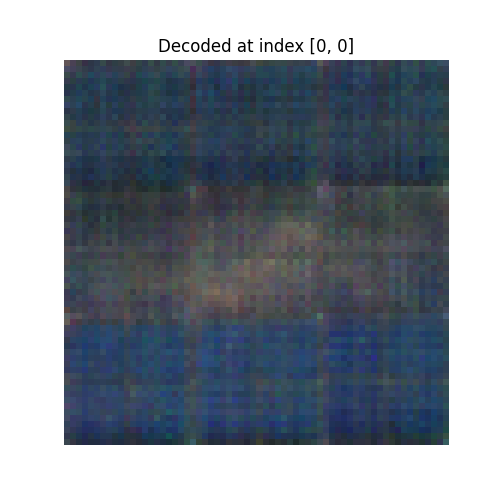
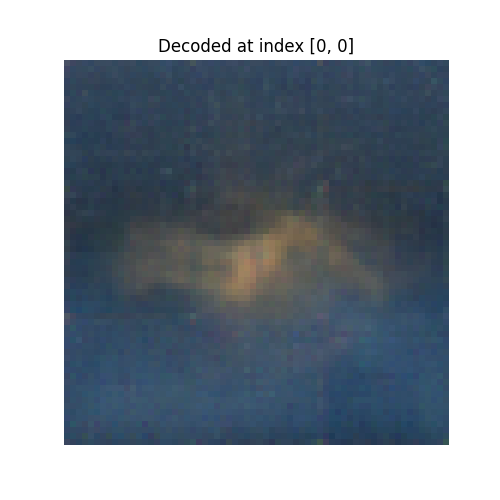
Still doesn't work

diff --git a/conv_env_dec.py b/conv_env_dec.py
@@ -1,48 +1,120 @@
 import torch
 import torch.nn as nn
-import torch.distributions as dist
 import torch.nn.functional as F
 
 
-## VAE Architecture comes form Ha's World Model Paper https://arxiv.org/pdf/1803.10122
+
+def nerf_posenc_2d(H, W, L=6, device='cpu'):
+    """
+    Returns a 2D NeRF-style positional encoding of shape (4L, H, W).
+    - 2L channels for x (sin/cos)
+    - 2L channels for y (sin/cos)
+    """
+
+    # Coordinates in [0, 1]
+    x_lin = torch.linspace(0, 1, W, device=device)  # shape: (W,)
+    y_lin = torch.linspace(0, 1, H, device=device)  # shape: (H,)
+
+    # Broadcast to shape (H, W)
+    x_coords = x_lin.unsqueeze(0).expand(H, W)      # (H, W)
+    y_coords = y_lin.unsqueeze(1).expand(H, W)      # (H, W)
+
+    # Build up lists of sin/cos expansions
+    x_enc = []
+    y_enc = []
+    for i in range(L):
+        freq = 2.0 ** i * torch.pi   # e.g. π, 2π, 4π, ...
+        x_enc.append(torch.sin(freq * x_coords))
+        x_enc.append(torch.cos(freq * x_coords))
+        y_enc.append(torch.sin(freq * y_coords))
+        y_enc.append(torch.cos(freq * y_coords))
+
+    # Each list now has length 2L, each element shape (H, W).
+    # Stack them on a new channel dimension => shape (2L, H, W)
+    x_enc = torch.stack(x_enc, dim=0)
+    y_enc = torch.stack(y_enc, dim=0)
+
+    # Combine x and y encodings => shape (4L, H, W)
+    pe_2d = torch.cat([x_enc, y_enc], dim=0)
+
+    return pe_2d
+
 
 class ConvEncoder(nn.Module):
-    def __init__(self, depth=32, latent_size=32, act=nn.ReLU()):
+    def __init__(self, depth=32, latent_size=32, act=nn.ReLU(), L=6):
+        """
+        depth: base channel multiplier
+        latent_size: dimension of latent vector z
+        act: activation function
+        L: number of NeRF frequency bands
+        """
         super().__init__()
         self.depth = depth
         self.act = act
         self.latent_size = latent_size
-        self.device = torch.device("cuda" if torch.cuda.is_available() else "cpu")
-        
-        self.conv1 = nn.Conv2d(in_channels=3, out_channels=1*depth, kernel_size=4, stride=2).to(self.device)
-        self.conv2 = nn.Conv2d(in_channels=1*depth, out_channels=2*depth, kernel_size=4, stride=2).to(self.device)
-        self.conv3 = nn.Conv2d(in_channels=2*depth, out_channels=4*depth, kernel_size=4, stride=2).to(self.device)
-        self.conv4 = nn.Conv2d(in_channels=4*depth, out_channels=8*depth, kernel_size=4, stride=2).to(self.device)
-        self.fc_mu = nn.Linear(8*depth*2*2, latent_size).to(self.device)
-        self.fc_logvar = nn.Linear(8*depth*2*2, latent_size).to(self.device)
+        self.L = L
+
+        # The number of extra channels from NeRF encoding is 4L (2L for x, 2L for y).
+        in_ch = 3 + 4 * L
+
+        self.conv1 = nn.Conv2d(in_channels=in_ch, out_channels=1*depth, kernel_size=4, stride=2)
+        self.conv2 = nn.Conv2d(in_channels=1*depth, out_channels=2*depth, kernel_size=4, stride=2)
+        self.conv3 = nn.Conv2d(in_channels=2*depth, out_channels=4*depth, kernel_size=4, stride=2)
+        self.conv4 = nn.Conv2d(in_channels=4*depth, out_channels=8*depth, kernel_size=4, stride=2)
+
+        self.fc_mu = nn.Linear(8 * depth * 2 * 2, latent_size)
+        self.fc_logvar = nn.Linear(8 * depth * 2 * 2, latent_size)
 
     def forward(self, obs):
-        obs = obs.to(self.device)
-        # print(f"Obs Shape : {obs.shape}")
+        """
+        obs shape: (B, T, H, W, 3). After permute => (B, T, 3, H, W).
+        We'll flatten (B, T) => (B*T), add NeRF positional embeddings => (B*T, 3+4L, H, W).
+        Then go through conv layers -> (B*T, ...). Finally split back to (B, T, latent_size).
+        """
+        # Permute to (B, T, C, H, W)
         obs = obs.permute(0, 1, 4, 2, 3)
         B, T, C, H, W = obs.shape
-        x = obs.view(B * T, C, H, W)
+
+        # Flatten batch
+        x = obs.view(B*T, C, H, W)  # shape: (B*T, 3, H, W)
+
+        # --------------------------------------------------
+        #  Build multi-frequency positional encoding (NeRF)
+        # --------------------------------------------------
+        device = x.device
+        # shape: (4L, H, W)
+        pe_2d = nerf_posenc_2d(H, W, L=self.L, device=device)
+        # Broadcast to match (B*T) in the batch dimension
+        # but notice we only have (4L, H, W), not (B*T, 4L, H, W).
+        # We can just repeat or expand along the batch dimension:
+        pe_2d = pe_2d.unsqueeze(0).expand(B*T, -1, -1, -1)  # => (B*T, 4L, H, W)
+
+        # Concatenate with original image channels => (B*T, 3 + 4L, H, W)
+        x = torch.cat([x, pe_2d], dim=1)
+
+        # CNN forward
         x = self.act(self.conv1(x))
         x = self.act(self.conv2(x))
         x = self.act(self.conv3(x))
         x = self.act(self.conv4(x))
+
+        # Flatten spatial dimensions
         x = x.reshape(x.size(0), -1)
+
+        # Produce mu and logvar
         mu = self.fc_mu(x)
         logvar = self.fc_logvar(x)
-        
-        # Latent Vector Z is sampled from Gaussian prior
+
+        # Reparameterization trick
         std = torch.exp(0.5 * logvar)
         eps = torch.randn_like(std)
         z = mu + eps * std
-        
+
+        # Reshape back to (B, T, latent_size)
         z = z.view(B, T, -1)
-        print("Shape of the encoded observation:", z.shape)
+        print("Encoded shape:", z.shape)
         return z
+
 
 class ConvDecoder(nn.Module):
     def __init__(self, depth=32, latent_size=32, act=nn.ReLU(), shape=(64, 64, 3)):
@@ -51,17 +123,15 @@ class ConvDecoder(nn.Module):
         self.latent_size = latent_size
         self.act = act
         self.out_height, self.out_width, self.out_channels = shape
-        self.device = torch.device("cuda" if torch.cuda.is_available() else "cpu")
         
-        self.fc = nn.Linear(latent_size, 8 * depth * 1 * 1).to(self.device)
-        self.deconv1 = nn.ConvTranspose2d(in_channels=8 * depth, out_channels=8 * depth, kernel_size=5, stride=2).to(self.device)
-        self.deconv2 = nn.ConvTranspose2d(in_channels=8 * depth, out_channels=4 * depth, kernel_size=5, stride=2).to(self.device)
-        self.deconv3 = nn.ConvTranspose2d(in_channels=4 * depth, out_channels=2 * depth, kernel_size=6, stride=2).to(self.device)
-        self.deconv4 = nn.ConvTranspose2d(in_channels=2 * depth, out_channels=self.out_channels, kernel_size=6, stride=2).to(self.device)
+        self.fc = nn.Linear(latent_size, 8 * depth * 1 * 1)
+        self.deconv1 = nn.ConvTranspose2d(in_channels=8 * depth, out_channels=8 * depth, kernel_size=5, stride=2)
+        self.deconv2 = nn.ConvTranspose2d(in_channels=8 * depth, out_channels=4 * depth, kernel_size=5, stride=2)
+        self.deconv3 = nn.ConvTranspose2d(in_channels=4 * depth, out_channels=2 * depth, kernel_size=6, stride=2)
+        self.deconv4 = nn.ConvTranspose2d(in_channels=2 * depth, out_channels=self.out_channels, kernel_size=6, stride=2)
         self.sigmoid = nn.Sigmoid()
 
     def forward(self, features):
-        features = features.to(self.device)
         B, T, F = features.shape
         features = features.view(B * T, F)
         

diff --git a/Dreamer.py b/Dreamer.py
@@ -130,22 +130,11 @@ class Dreamer(nn.Module):
 
     # Will return new trajectories of states and actions that will be used to train our model
     def model_update(self):
-
         # Sample a batch of experiences from the replay buffer
         states, actions, rewards_real, next_states, dones = self.replayBuffer.sample(self.batch_size, self.sample_steps)
-        # print(states.shape)
-        # print(actions.shape)
-        # print(rewards_real.shape)
-        # print(dones.shape)
-
-        # Get the initial state and latent space
 
         prev_state = torch.zeros((self.batch_size, self.RSSM.state_dim)).to(self.device)
         prev_latent_space = torch.zeros((self.batch_size, self.RSSM.latent_dim)).to(self.device)
-        # Forward pass through the RSSM
-        # print(f"Dones: {dones}")
-        # print(f"actions: {actions.squeeze()}")
-        # print(f"states: {prev_state.shape}")
 
         # import pdb; pdb.set_trace()
 
@@ -158,8 +147,6 @@ class Dreamer(nn.Module):
             observations=states.to(device)
         )
 
-
-        # Calculate the MSE loss for observation and decoded observation
         mse_loss = nn.MSELoss()
         # print(f"States : {states.shape}")
         # print(f"Decoded  : {decoded_observations.shape}")
@@ -202,21 +189,16 @@ class Dreamer(nn.Module):
         reward_loss = mse_loss(rewards_real.float().unsqueeze(2), rewards.float())
         # print(f"Reward Loss: {reward_loss.item()}")
 
-        total_loss = observation_loss + 0.1 *  kl_loss + reward_loss
+        total_loss = observation_loss + 0.1 * kl_loss + reward_loss
 
         # Backpropagation and optimization
         self.RSSM_optimizer.zero_grad()
         total_loss.backward()
         self.RSSM_optimizer.step()
-        
-        # Log losses to wandb
-        # wandb.log({
-        #     "observation_loss": observation_loss.item(),
-        #     "kl_loss": kl_loss.item(),
-        #     "reward_loss": reward_loss.item(),
-        #     "total_loss": total_loss.item()
-        # })
-        
+
+        # Delete unused tensors
+        del prev_state, prev_latent_space, mse_loss, total_loss
+
         return latent_spaces, prior_states, posterior_states, actions, reward_loss, kl_loss, observation_loss, rewards, decoded_observations
     
     def agent_update(
@@ -235,21 +217,13 @@ class Dreamer(nn.Module):
             horizon=self.horizon
         )
 
-        # print(f"Imagined States shape: {imagined_states.shape}")
-        # print(f"Imagined Beliefs shape: {imagined_beliefs.shape}")
-
-        # Compute critic rewards for imagined states and beliefs
         imagined_beliefs = imagined_beliefs.transpose(0, 1)
         imagined_states = imagined_states.transpose(0, 1)
         imagined_actions = imagined_actions.transpose(0, 1)
         imagined_rewards = imagined_rewards.transpose(0, 1)
         imagined_rewards = imagined_rewards.unsqueeze(2)
-        # print(f"Imagined Rewards shape: {imagined_rewards.shape}")
-        critic_rewards, distribution = self.critic(torch.cat([imagined_states.detach(), imagined_beliefs.detach()], dim=-1))
-        # print(f"Critic rewards shape: {critic_rewards.shape}")
 
-        # Ensure critic_rewards requires grad
-        
+        critic_rewards, distribution = self.critic(torch.cat([imagined_states.detach(), imagined_beliefs.detach()], dim=-1))
 
         imagined_values = compute_Vlambda(
             states=imagined_states,
@@ -281,6 +255,9 @@ class Dreamer(nn.Module):
         self.critic_optimizer.zero_grad()
         critic_loss.backward()
         self.critic_optimizer.step()
+
+        # Delete unused tensors
+        del imagined_beliefs, imagined_states, imagined_actions, imagined_rewards, critic_rewards, distribution, imagined_values, target_values
 
         return actor_loss, critic_loss
     
@@ -445,11 +422,16 @@ class Dreamer(nn.Module):
                     "kl_loss" : kl_loss.item()
                 })
 
+                # Delete unused tensors to free memory
+                del beliefs, states, posterior_states, actions, imagined_rewards
+                torch.cuda.empty_cache()
+
                 # Save observations to video at specified intervals
                 # if self.num_timesteps % video_interval == 0:
                 #     self.save_observations_to_video(eval_steps=self.sample_steps, video_path=video_path)
 
             self.rollout(use_RSSM=True)
+            torch.cuda.empty_cache()
 
             avg_actor_loss = total_actor_loss / update_steps
             avg_critic_loss = total_critic_loss / update_steps
@@ -474,7 +456,7 @@ class Dreamer(nn.Module):
                 # Save the plot
                 plt.savefig(f"decoded_observation_{self.num_timesteps}.png")
                 plt.close()
-
+            del decoded_observations
             obs = self.env.reset()
             render = self.env.physics.render(camera_id=0, height=self.img_h, width=self.img_w)
             self.last_obs = torch.tensor(render.copy()).to(self.device)
@@ -482,7 +464,6 @@ class Dreamer(nn.Module):
             self.prev_latent_space = torch.zeros((1, self.RSSM.latent_dim)).to(self.device)
 
         return
-    
 
     ### NEED TO EDIT THIS SO THAT REPRESENTATION MODEL ENCODES THE VALUES
     def sample_action(

diff --git a/value_functions.py b/value_functions.py
@@ -3,20 +3,6 @@ import torch.nn as nn
 import math
 
 def compute_VkN(states, rewards, tau, k, H, gamma, value_fn_rewards):
-    """
-    Compute V_N^k(s_tau) for one rollout.
-
-    states: torch.Tensor of shape [batch_size, t, state_dim]
-    rewards: torch.Tensor of shape [batch_size, t, 1]
-    tau: the index at which we want the value
-    k: how many steps of returns we sum before bootstrapping
-    H: the horizon from the paper (for safety, we don't exceed t+H)
-    gamma: discount factor (0 < gamma <= 1)
-    value_fn_rewards: torch.Tensor of shape [batch_size, t, 1]
-
-    Returns: torch.Tensor of shape [batch_size, 1] value estimate of V_N^k(s_tau)
-    """
-
     # We'll define h = min(tau + k, tau + H), i.e., we don't exceed the horizon
     h = min(tau + k, tau + H)
 
@@ -35,21 +21,6 @@ def compute_VkN(states, rewards, tau, k, H, gamma, value_fn_rewards):
     return discounted_return
 
 def compute_Vlambda(states, rewards, tau, H, gamma, lam, value_fn_rewards):
-    """
-    Compute V_lambda(s_tau) and return a tensor of V_lambda values for each step.
-
-    states: torch.Tensor of shape [batch_size, t, state_dim]
-    rewards: torch.Tensor of shape [batch_size, t, 1]
-    tau: starting index for the value
-    H: horizon for imagination
-    gamma: discount factor
-    lam: lambda (0 <= lam <= 1)
-    value_fn_rewards: torch.Tensor of shape [batch_size, t, 1]
-
-    Returns: torch.Tensor of shape [batch_size, H, 1] for each step
-    """
-
-    # Tensor to store V_lambda values for each step
     v_lambda_tensor = torch.zeros(rewards.size(0), H, 1, device=rewards.device)
     
     # n goes from 1 to H, but note that the formula has H-1 in the sum
